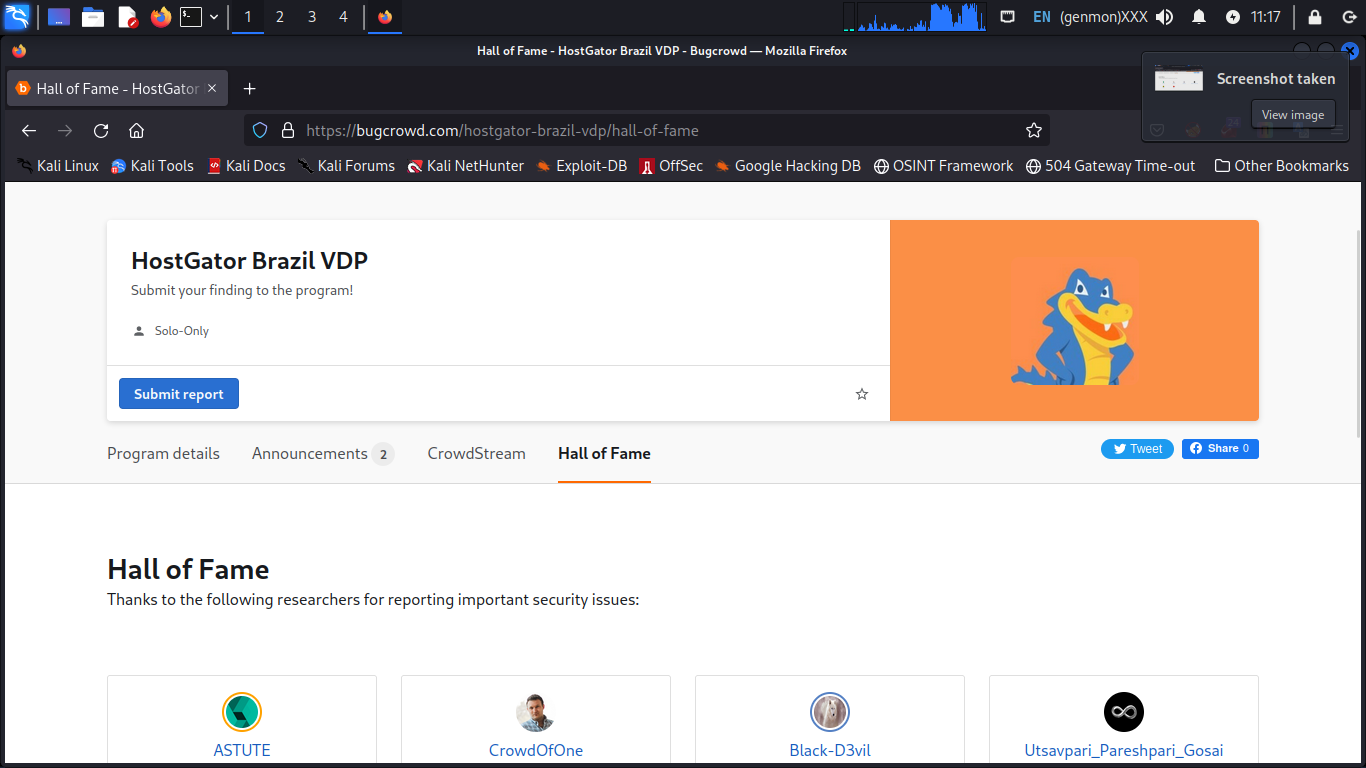
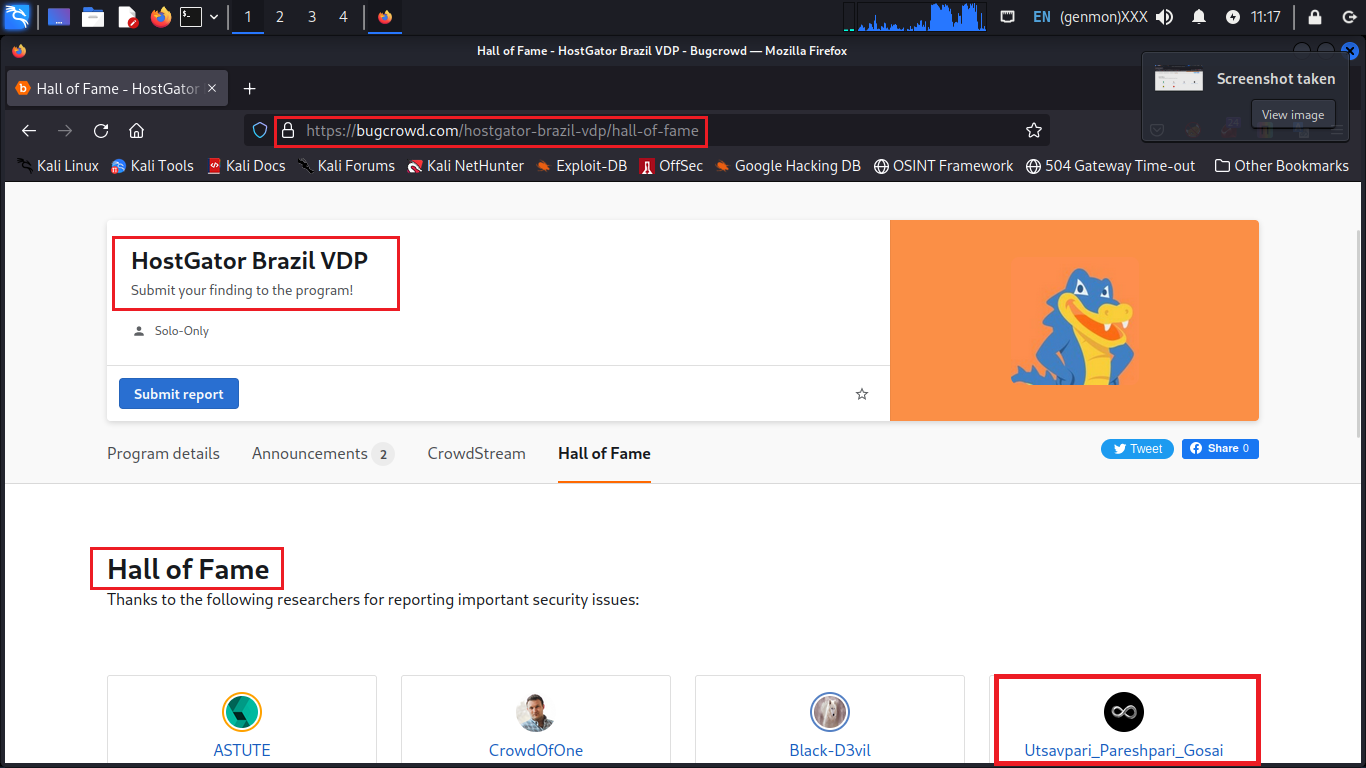
Update

diff --git a/articles/index-30.html b/articles/index-30.html
@@ -210,7 +210,7 @@
 
 
             <div style="text-align: center; margin: 20px 0;">
-                <img src="images/WhatsApp Image 2025-07-05 at 10.57.01_dbf22099.jpg" alt="Blog Image">
+                <img src="images/Mercedes.png" alt="Blog Image">
             </div>
 
 
